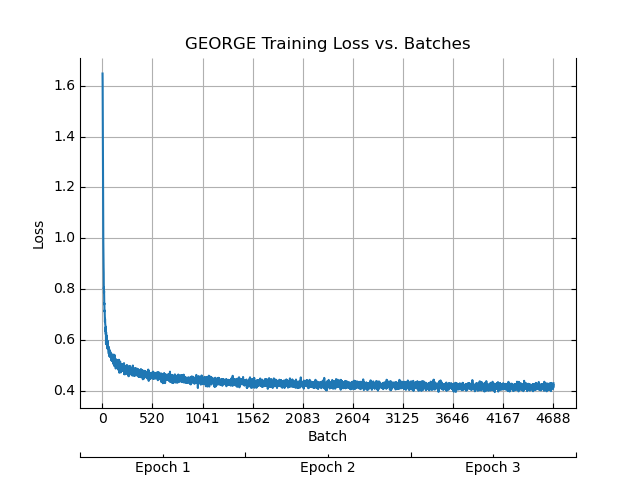
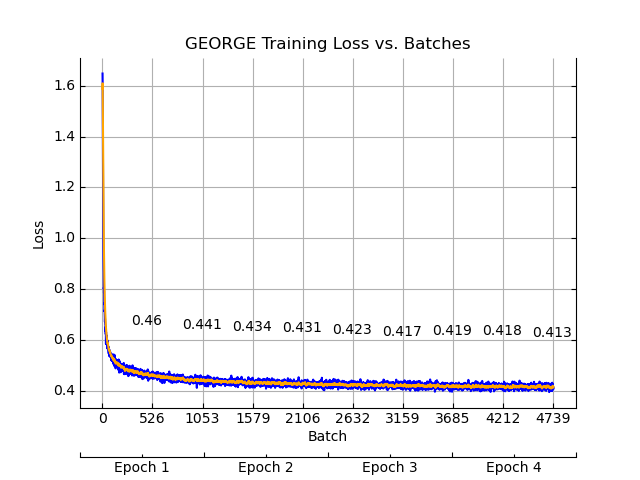
Added kalman filtered line and values

diff --git a/GEORGE_Library.py b/GEORGE_Library.py
@@ -41,7 +41,7 @@ import skimage
 import skimage.io
 import skimage.transform
 from skimage import io, transform
-from statistics import mean
+from statistics import mean, variance
 import plotly.graph_objs as go
 import plotly.figure_factory as ff
 from plotly import tools
@@ -595,11 +595,11 @@ def dict_to_tuple(inputs):
         inputs["bounding_boxes"], max_boxes=32
     )
 
-def kalman(z):
+def kalman(z, Q):
     # initial parameters
     n_iter = len(z)
     sz = (n_iter,)            # size of array
-    Q = 0.05                  # process variance
+    #Q = 0.005                # process variance
 
     # allocate space for arrays
     xhat = np.zeros(sz)       # a posteri estimate of x
